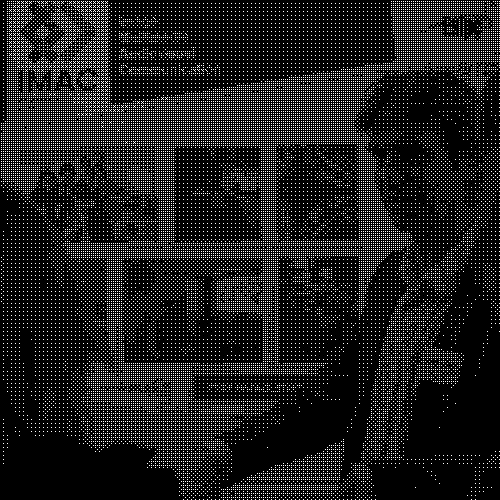
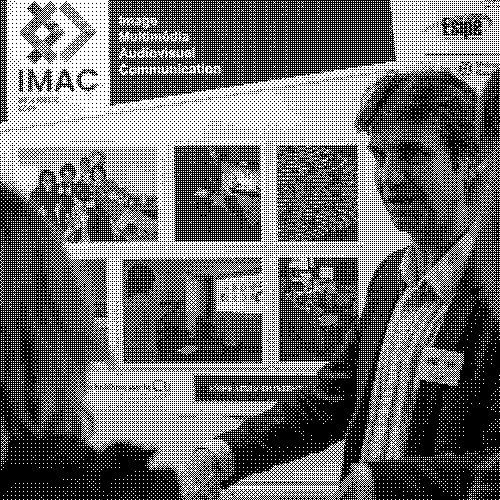
exo26 en cours et suite rapport

diff --git a/src/main.cpp b/src/main.cpp
@@ -778,33 +778,10 @@ void exo24_sharpen(sil::Image &image)
     exo24(image, matrice);
 }
 
-void exo24_bb(sil::Image &image)
-{
-    int P = 1;
-    // https://www.f-legrand.fr/scidoc/docmml/image/filtrage/convolution/convolution.html
-    float epsilon = 0.05;
-    float sigma = P*1.0/sqrt(-2*log(epsilon));
-    int size = 3; // ou 10
-    vector<vector<float>> h(size, vector<float>(size, 0));
-    int som = 0;
-    for (int m = -P; m < P+1; m++)
-    {
-        for (int n = -P; n < P+1; n++){
-            h[m+P][n+P] = exp(-(n*n+m*m)/(2*sigma*sigma));
-            som += h[m+P][n+P];
-        }
-    }
-    for (int i = 0; i < size; i++)
-        for (int j = 0; j < size; j++)
-            h[i][j] = h[i][j]/som;
 
-    exo24(image, h);
-}
-
-void exo25(sil::Image &image)
+void exo25(sil::Image &image, int size)
 {
     // CONVOLUTION : FILTES SÉPARABLES (ici : code de blox blur séparé)
-    int size = 18; // ou 10
     float v = 1.f / (size);
     vector<float> matrice(size, v);
 
@@ -855,15 +832,48 @@ void exo25(sil::Image &image)
 }
 
 
+void exo26(sil::Image &image)
+{
+    exo3(image);
+    Image imageFlou = image;
+    Image imageTresFlou = image;
+    exo25(imageFlou, 1);
+    exo25(imageTresFlou, 200);
+
+    for (int x = 0; x < image.width(); ++x)
+        for (int y = 0; y < image.height(); ++y)
+        {
+            float dog = imageFlou.pixel(x,y).r - imageTresFlou.pixel(x,y).r;
+            dog = 0.5f + dog * 2.0f; // facteur à ajuster
+
+            imageFlou.pixel(x,y) = {dog, dog, dog};
+
+            /*
+            imageFlou.pixel(x,y).r -= imageTresFlou.pixel(x,y).r;
+            imageFlou.pixel(x,y).g -= imageTresFlou.pixel(x,y).g;
+            imageFlou.pixel(x,y).b -= imageTresFlou.pixel(x,y).b;
+
+            */
+            // cout << calculLuminance(imageFlou.pixel(x,y))*10 << endl;
+            if (dog < 0.0f)
+                imageFlou.pixel(x,y) = {1, 1, 1};
+            else
+                imageFlou.pixel(x,y) = {0, 0, 0};
+
+        }
+
+    image = imageFlou;
+}
+
 int main()
 {
     // sil::Image image{"images/photo_faible_contraste.jpg"};
-    // sil::Image image{"images/photo.jpg"};
-    sil::Image image{"images/logo.png"};
+    sil::Image image{"images/photo.jpg"};
+    // sil::Image image{"images/logo.png"};
     // sil::Image image{500/*width*/, 500/*height*/};
     // TODO: modifier l'image
 
-    exo25(image);
+    exo21(image);
 
     image.save("output/pouet.png");
 

diff --git a/README.md b/README.md
@@ -209,7 +209,28 @@ A la place, je me suis aidé du cercle trigonométrique et du tableau.\
 Je le parcours, puis à chaque ligne (position x sur le cercle), je remplis la ligne de pixel blanc jusqu'à atteindre -x sur le cercle trigonométrique.\
 J'incrémente i de 0.00001 afin d'être sûr de passer par un maximum de point sur le cercle trigo afin de remplir pour disque.
 
-# a améliorer : ajouter le tableau trigo
+
+<div align="center">
+<img width="200" src="images/README/tableau_trigo.png" title=""/>
+<br>
+<i>Tableau trigonométrique, ici, seul la fonction Sinus est illustré</i>
+</div>
+
+```c++
+for (float i = 0; i <= 4; i += 0.0001)
+{
+// à chaque point sur l'arc de cercle
+float y = (sqrt(i) / 2) * taille; // correspond à sin
+float x = (sqrt(4 - i) / 2) * taille; // correspond à cos
+```
+<div align="center">
+<i>Extrait de mon code</i>
+</div>
+
+En comparant le code avec le tableau, nous faisons immédiatement le lien entre la boucle et la valeur en rouge sur le tableau (0, 1, 2, 3, 4)
+et le calcul de y et x. `taille` indique la taille du disque, et on multiplie la taille avec le calcul afin d'espacer
+le point sur le fond noir (vu que la valeur de x et y sera plus grande).
+
 
 <br><br><br>
 
@@ -248,55 +269,67 @@ J'ai été contraint de corriger ma fonction disque : je ne gérait pas le cas o
 <i>Image originale et version modifiée</i>
 </div>
 
-# Lorem ipsum
+On trace un cercle central, puis on tourne autour grâce au cercle trigonométrique (on va de 0 à PI*2 avec un pas de PI/3).\
+À chaque itération, on redessine un même cercle, mais où le centre de ce nouveau cercle correspond au point sur le cercle central.\
+Plus le pas sera petit, plus il y aura de cercle autour du cercle central.
 
 <br><br><br>
 
 ### <a id="p15"></a> 15. Mosaïque
 <div align="center">
-<img height="200" src="images/photo.jpg" title=""/>
+<img height="200" src="images/logo.png" title=""/>
 <img height="200" src="images/README/exo15.png" title=""/>
 <br>
 <i>Image originale et version modifiée</i>
 </div>
 
-# Lorem ipsum
+J'ai créé une nouvelle image : un fond noir 5 fois plus grand que l'image importé afin qu'elle puisse rentrer
+25 fois sur le fond.\
+J'ai parcouru le fond, et à chaque fois, recopié chaque pixel du logo sur le fond.
 
 <br><br><br>
 
 ### <a id="p16"></a> 16. Mosaïque miroir
 <div align="center">
-<img height="200" src="images/photo.jpg" title=""/>
+<img height="200" src="images/logo.png" title=""/>
 <img height="200" src="images/README/exo16.png" title=""/>
 <br>
 <i>Image originale et version modifiée</i>
 </div>
 
-# Lorem ipsum
+Il suffit de reprendre le code de la version précédente de mosaïque, et quand nous sommes sur une colonne
+impaire, faire appel à la fonction de l'exercice 6 (MIRROIR). 
 
 <br><br><br>
 
 ### <a id="p17"></a> 17. Glitch
 <div align="center">
-<img height="200" src="images/photo.jpg" title=""/>
+<img height="200" src="images/logo.png" title=""/>
 <img height="200" src="images/README/exo17.png" title=""/>
 <br>
 <i>Image originale et version modifiée</i>
 </div>
 
-# Lorem ipsum
+Voici l'algorithme suivi :
+1. On choisit une position aléatoire sur l'image.
+2. On choisit une autre position aléatoire sur l'image.
+3. On choisit les dimensions d'un rectangle de manière aléatoire
+4. On parcourt une boucle imbriquée longueur largeur à l'aide du rectangle
+5. On échange chaque pixel entre les deux positions
 
 <br><br><br>
 
 ### <a id="p18"></a> 18. Tri de pixels
 <div align="center">
-<img height="200" src="images/photo.jpg" title=""/>
+<img height="200" src="images/logo.png" title=""/>
 <img height="200" src="images/README/exo18.png" title=""/>
 <br>
 <i>Image originale et version modifiée</i>
 </div>
 
-# Lorem ipsum
+Sur chaque ligne de l'image, on prend un point aléatoire et une distance aléatoire.\
+On trie sur le critère de brightness les pixels sur la distance à partir du point choisit.\
+Pour que l'effet soit plus marquant, je choisit en réalité deux points par ligne.
 
 <br><br><br>
 
@@ -308,7 +341,7 @@ J'ai été contraint de corriger ma fonction disque : je ne gérait pas le cas o
 <i>Image originale et version modifiée</i>
 </div>
 
-# Lorem ipsum
+Une fractale qui était horrible à faire.
 
 <br><br><br>
 
@@ -332,4 +365,9 @@ J'ai été contraint de corriger ma fonction disque : je ne gérait pas le cas o
 <i>Image originale et version modifiée</i>
 </div>
 
-# Lorem ipsum
+Nous voulons représenter de manière jolie notre image avec uniquement du noir et du blanc.\
+L'algorithme va jouer sur la présence du noir et du blanc pour faire paraître une nuance de gris.\
+C'était utilisé dans le cas des écrans monochrome ou quand nous étions limité en termes de palette de couleur,
+mais également pour les imprimantes à l'époque.\
+\
+J'ai repris l'algorithme présenté dans l'article de l'énoncé.
